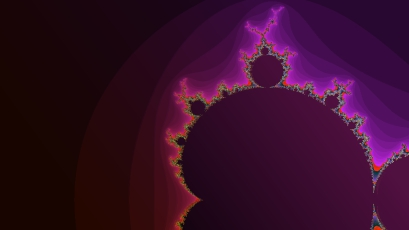
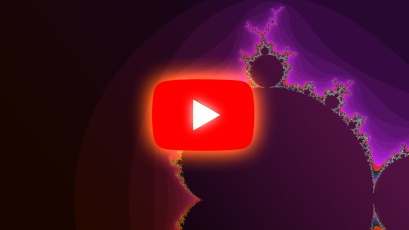
.

Changed region(s): [[0.3227, 0.2435, 0.6748, 0.7304]]

diff --git a/Readme.md b/Readme.md
@@ -34,7 +34,7 @@ Este repositório contém um projeto em desenvolvimento para a criação de imag
 4. As imagens geradas serão salvas no diretório `Output`.
 #### Resultados
 
-[![Fractal Result_2024-06-06_01.25.00](https://img.youtube.com/vi/OEGRl1Pd0Vg/0.jpg)](https://youtu.be/OEGRl1Pd0Vg)
+[![Fractal Result_2024-06-06_01.25.00](https://github.com/gabrieljsantos/Fractal.Image-Generator/blob/main/Other/cover.jpg?raw=true)](https://youtu.be/OEGRl1Pd0Vg)
 
 #### Status do Projeto
 
